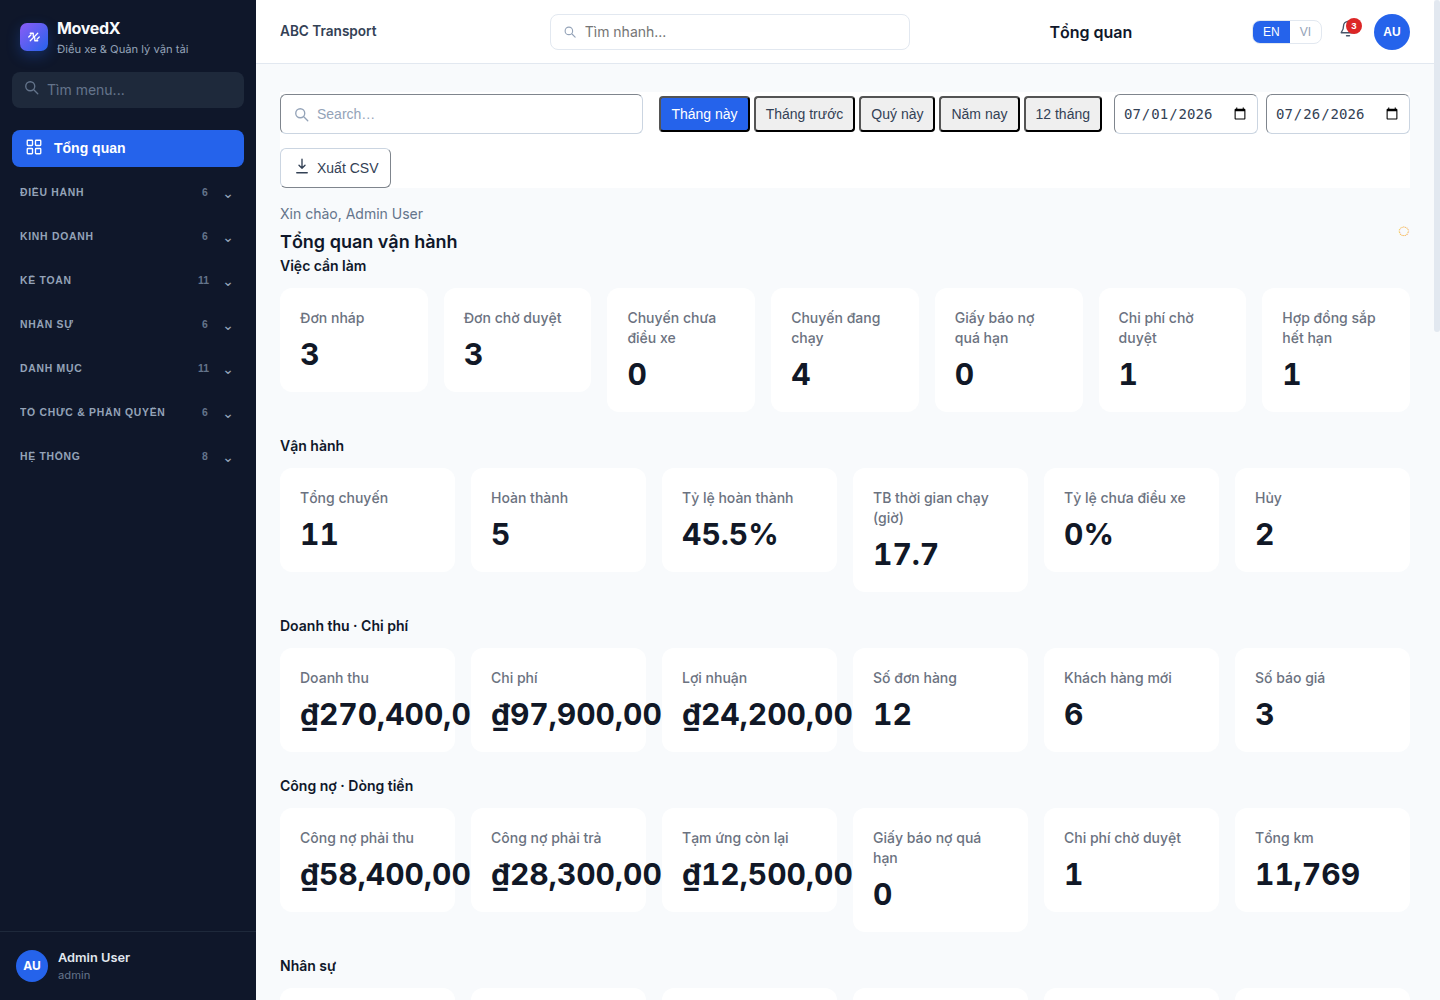
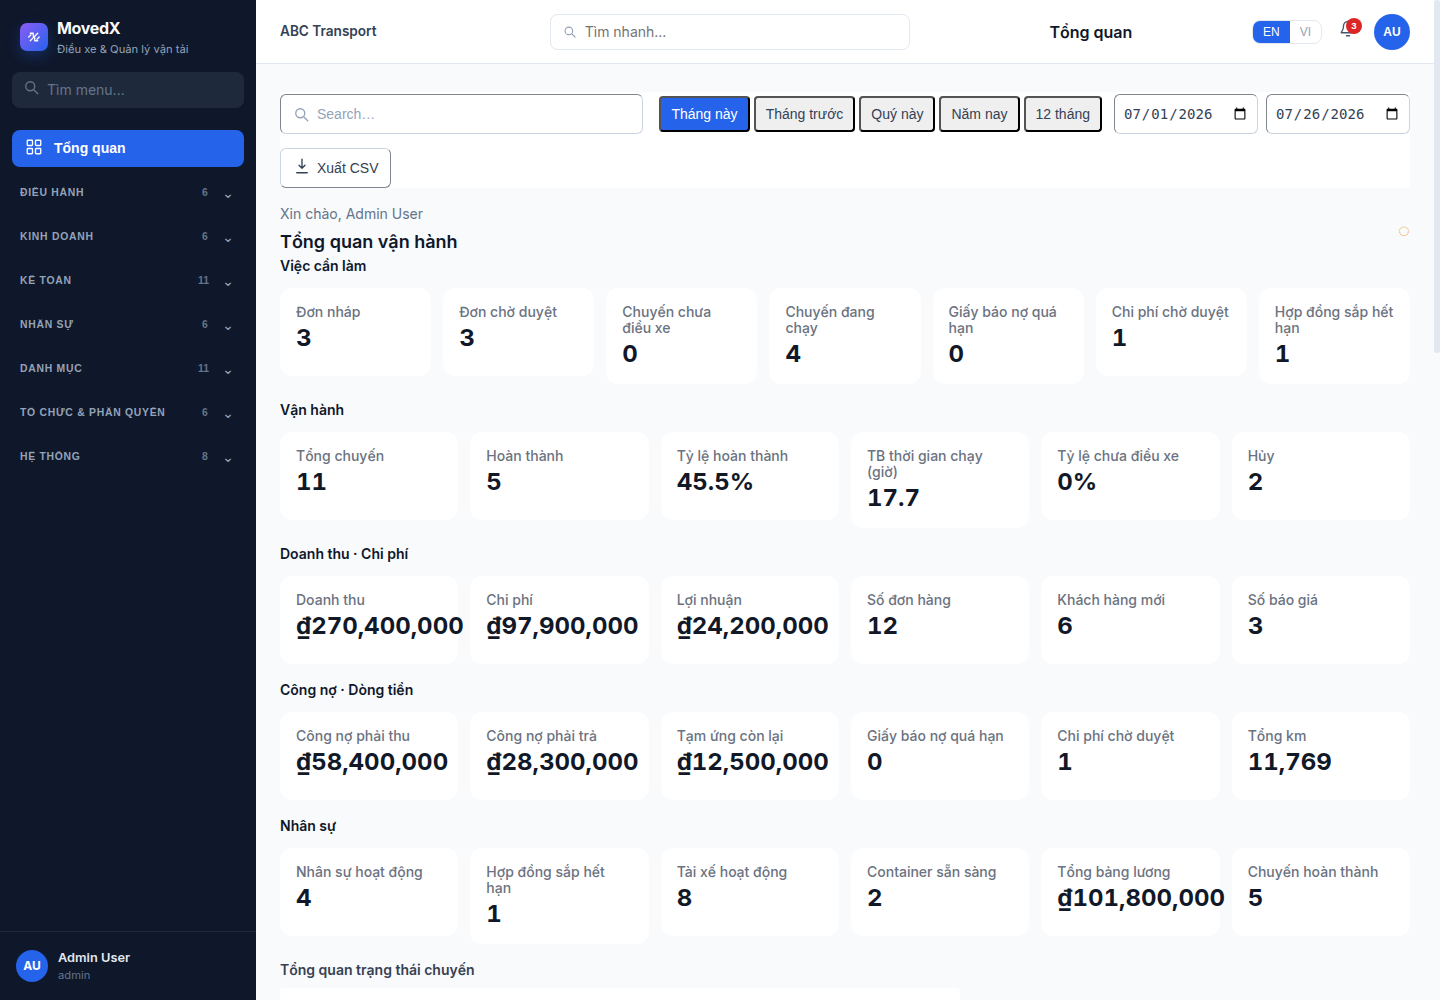
Tighten dashboard KPI card density

diff --git a/lib/components/StatCard.ts b/lib/components/StatCard.ts
@@ -16,9 +16,10 @@ export class StatCard extends BaseComponent {
       indigo: 'border-indigo-200', blue: 'border-blue-200',
     }[color] || 'border-gray-200';
 
-    const card = html.take(container).div.className(`bg-white rounded-xl border ${borderCls} p-5 flex flex-col`).getContext();
-    html.take(card).p.className('text-sm font-medium text-gray-500').text(String(label ?? ''));
-    html.take(card).p.className('mt-2 text-3xl font-bold text-gray-900 tabular-nums').text(String(displayValue ?? '—'));
+    const card = html.take(container).div.className(`stat-card bg-white rounded-xl border ${borderCls} p-4 flex flex-col`).getContext();
+    card.style.minHeight = '88px';
+    html.take(card).p.className('text-sm font-medium leading-4 text-gray-500').text(String(label ?? ''));
+    html.take(card).p.className('mt-1 text-2xl font-bold leading-7 text-gray-900 tabular-nums').text(String(displayValue ?? '—'));
 
     if (trend) {
       const trendDiv = html.take(card).div.className(`flex items-center gap-1 mt-1 ${trend === 'up' ? 'text-green-600' : 'text-red-600'}`).getContext();

diff --git a/lib/components/StatRow.ts b/lib/components/StatRow.ts
@@ -23,7 +23,7 @@ export class StatRow extends BaseComponent {
     if (this.title) {
       html.take(container).h3.className('mb-3 text-sm font-semibold text-slate-900').text(this.title);
     }
-    const grid = html.take(container).div.className(`grid ${gridCls} gap-4`).getContext();
+    const grid = html.take(container).div.className(`grid ${gridCls} gap-3`).getContext();
 
     this.stats.forEach((stat, i) => {
       const slot = html.take(grid).div.getContext();

diff --git a/lib/page-renderer.ts b/lib/page-renderer.ts
@@ -509,7 +509,7 @@ export async function renderPage(config: any, { container = document.body }: { c
 
     const comp = new StatRow(`stat-row-${def.source || Date.now()}`, mappedStats, def.title || '');
     const slot = document.createElement('div');
-    slot.style.marginBottom = '24px';
+    slot.style.marginBottom = '16px';
     targetContainer.appendChild(slot);
     comp.mount(slot);
 

diff --git a/.scratch/movedx-feature-parity/evidence/completion-audit.md b/.scratch/movedx-feature-parity/evidence/completion-audit.md
@@ -18,6 +18,7 @@ Audited 2026-07-26 against `.scratch/movedx-feature-parity/PRD.md`.
 - The shell reads the seeded company profile through an authenticated server endpoint and renders tenant identity in the header; it is not hard-coded in the client.
 - Dashboard renders a declarative in-page greeting using the authenticated user runtime state.
 - Dashboard period state defaults to the selected current-month preset with synchronized date fields and datasource bounds.
+- Shared KPI cards use compact reference-density spacing; the dashboard chart heading is visible within the 1440 x 1000 viewport.
 
 ## Not Proven
 
